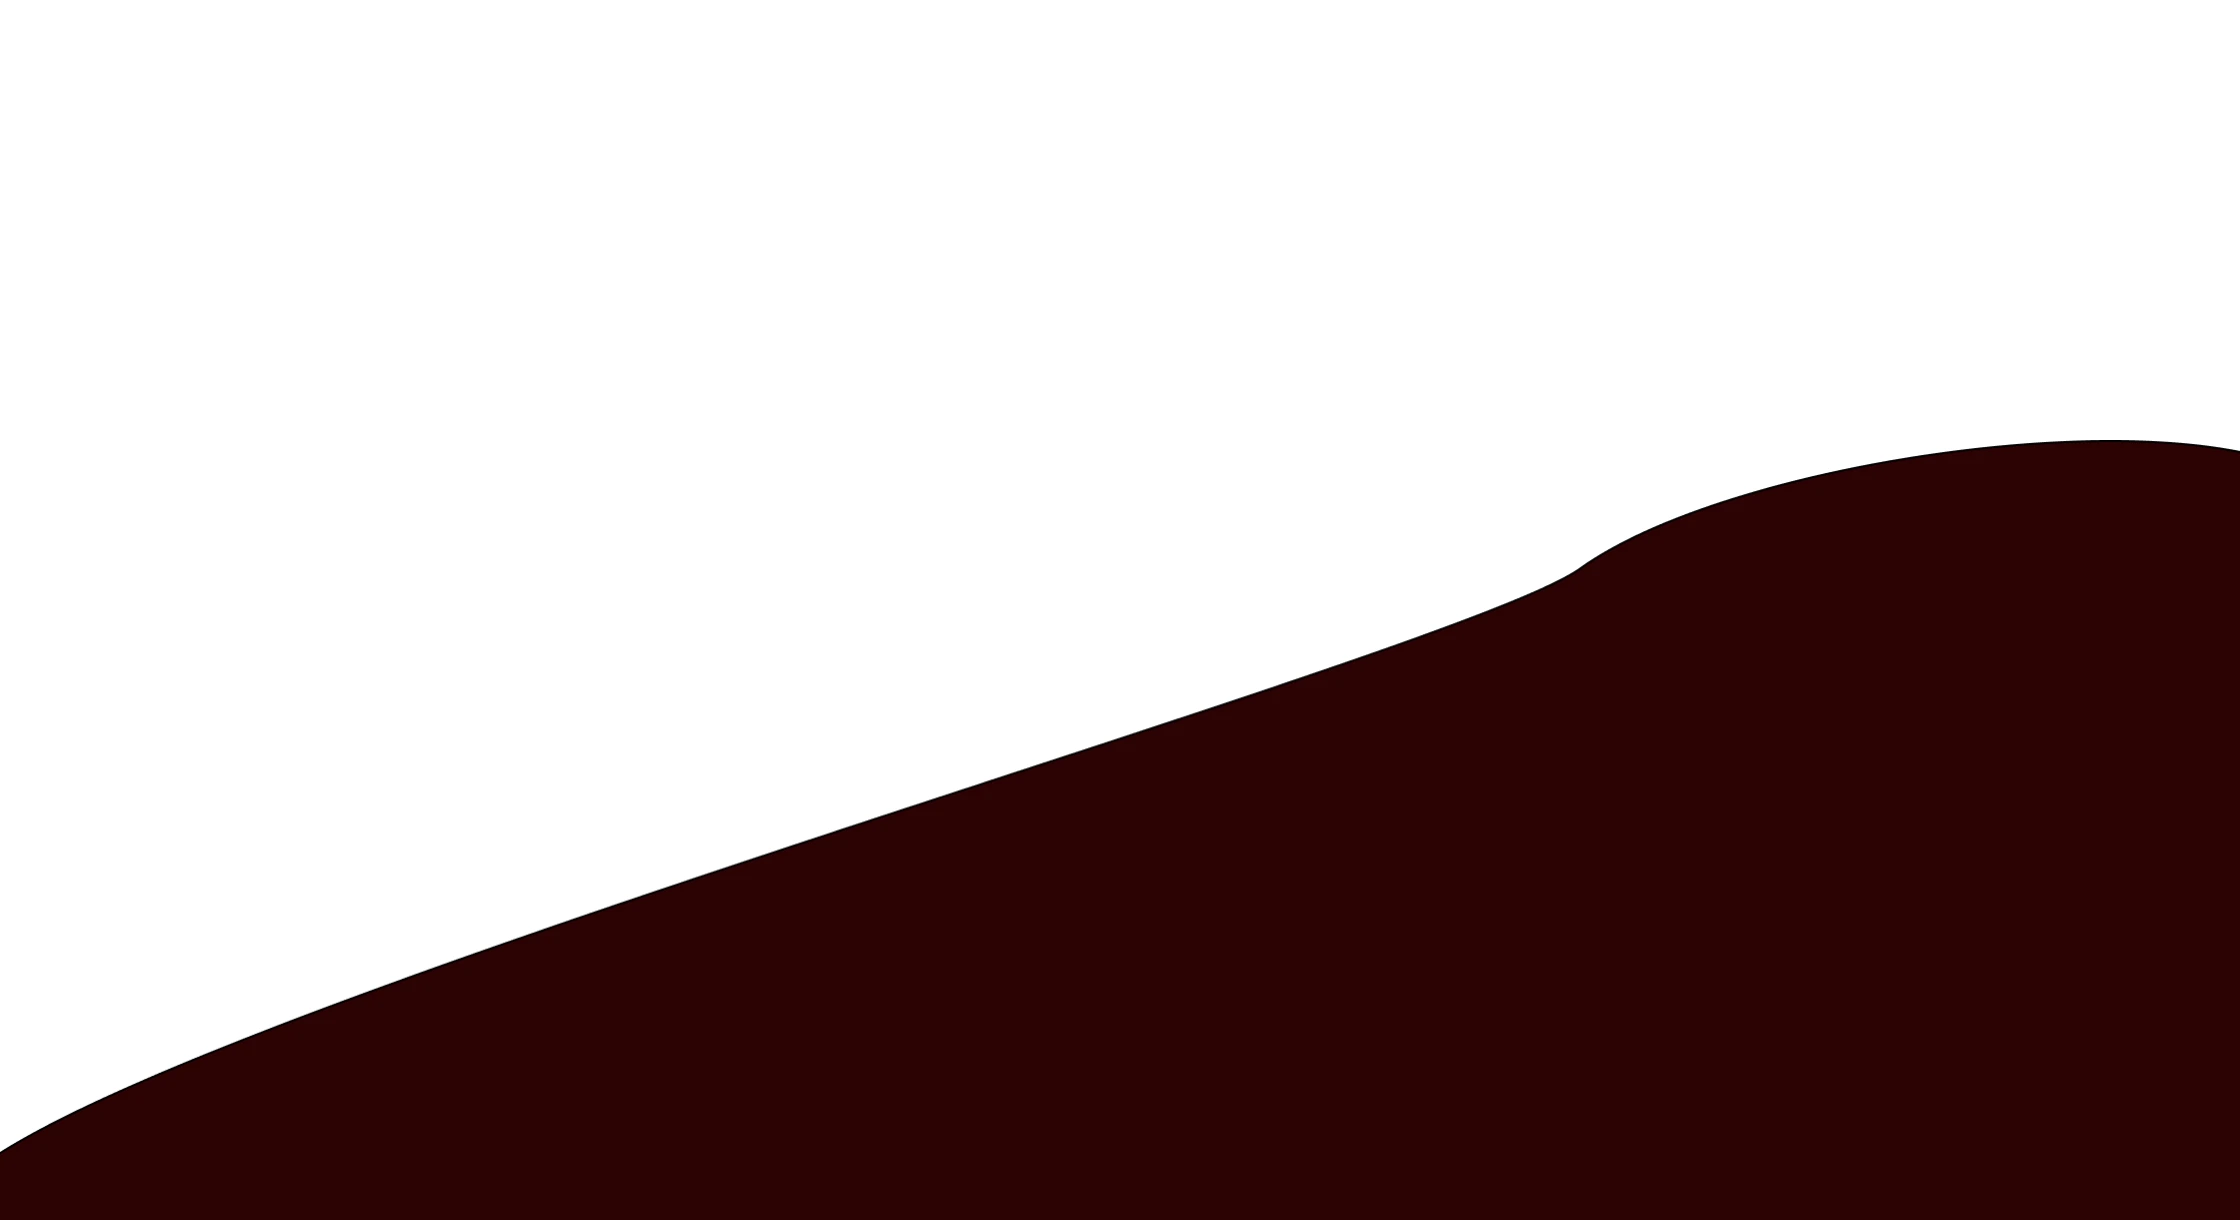
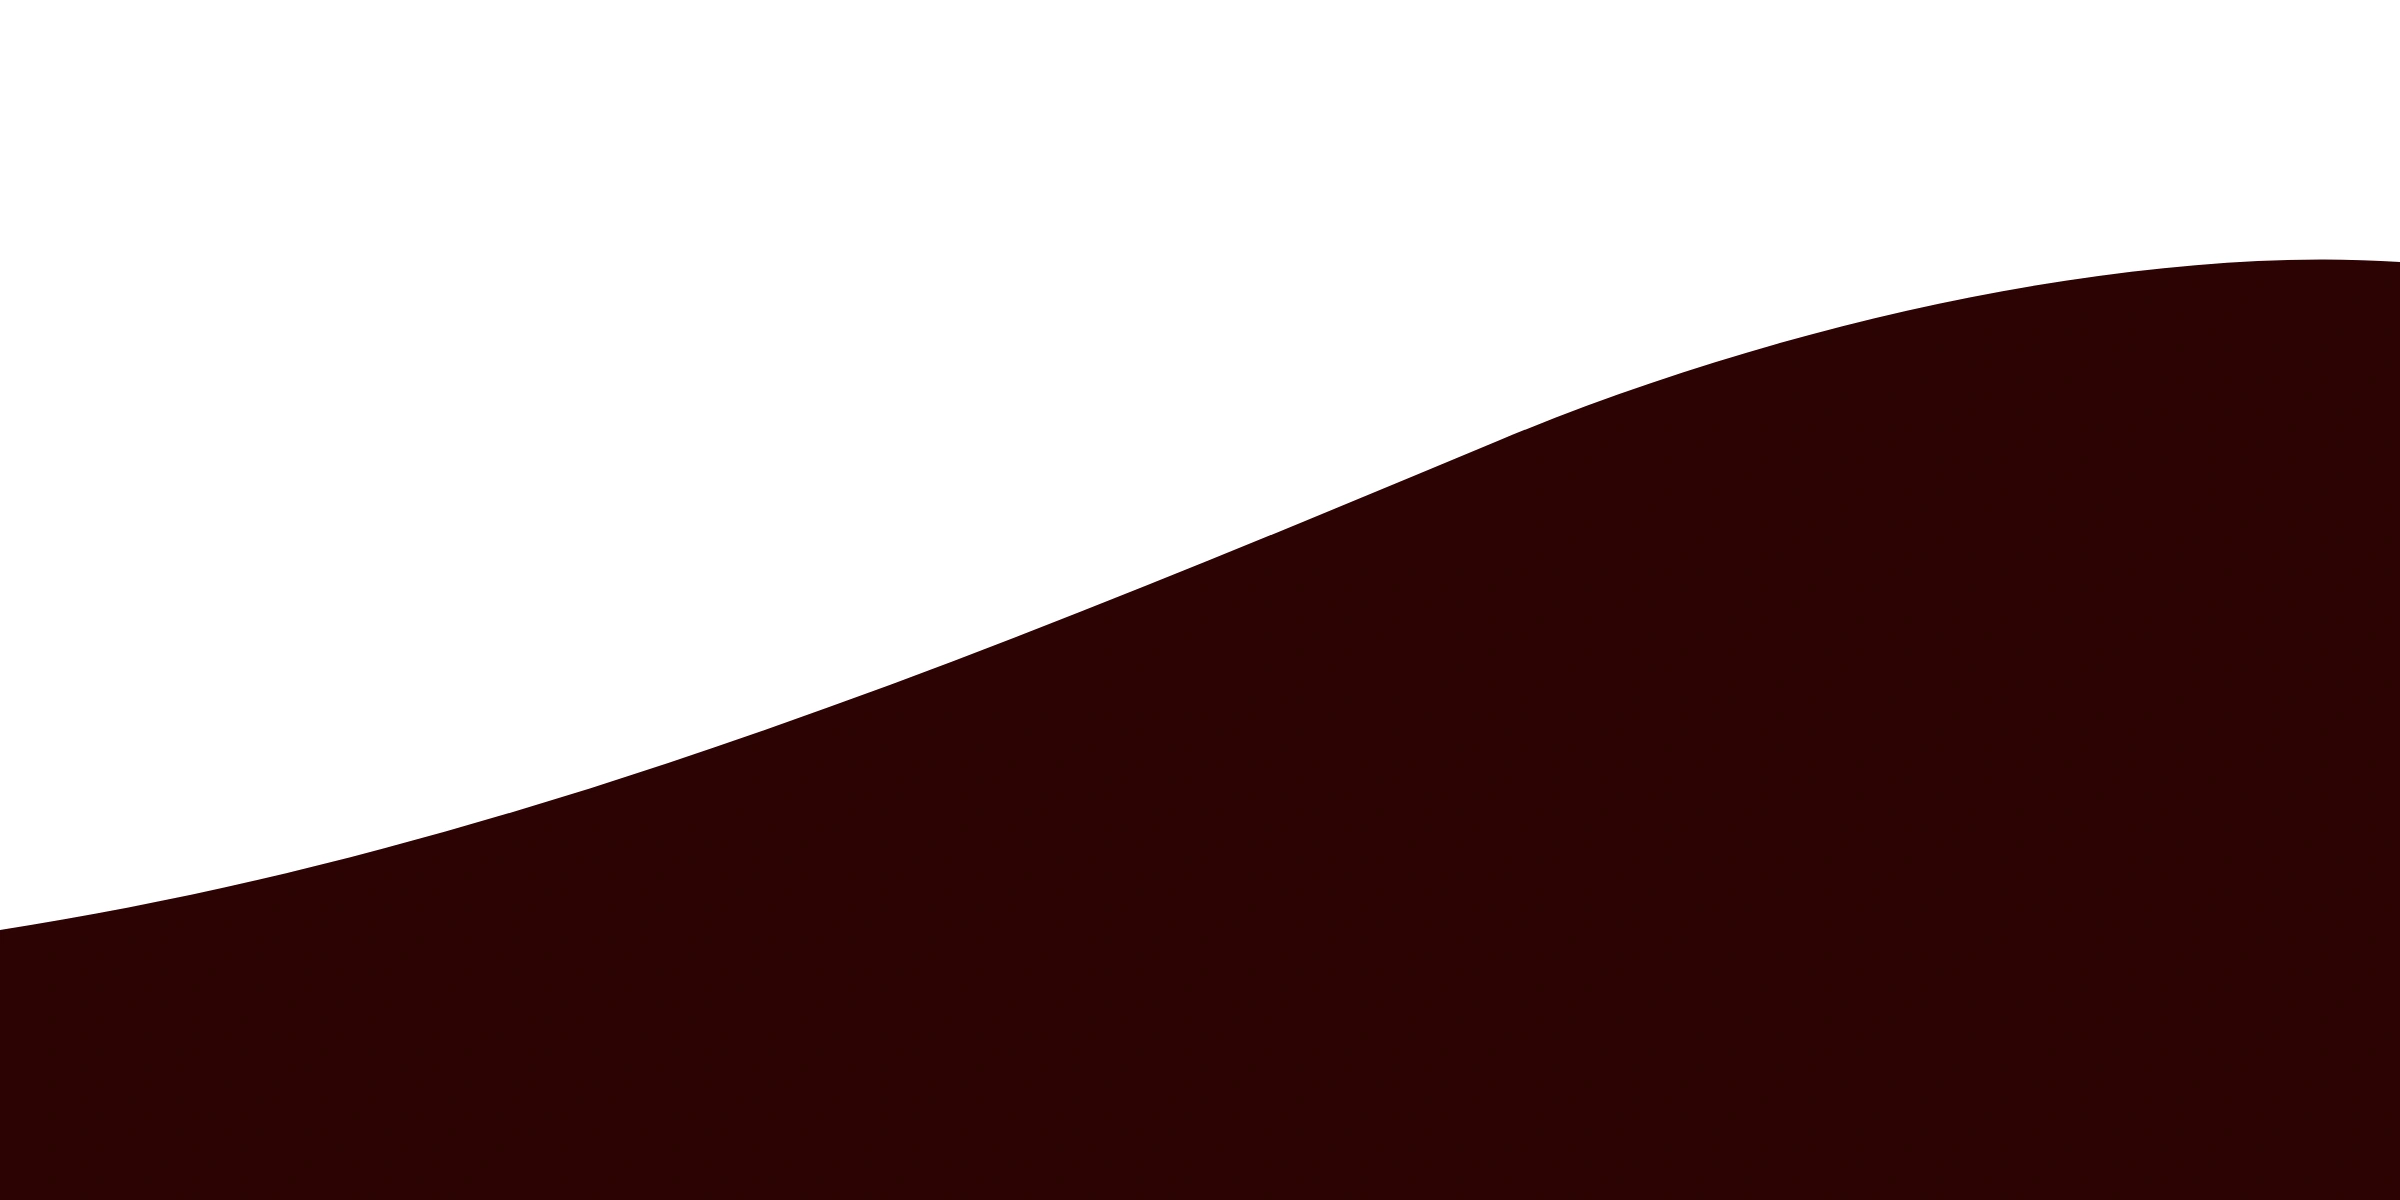
Stines oppskrifter: bigger screens and illustration in the thumbnail, one even dark red sweep

Changed region(s): [[0.0, 0.2158, 1.0, 0.9558]]

diff --git a/app/data/thumbnails.ts b/app/data/thumbnails.ts
@@ -74,8 +74,9 @@ export const thumbnails = {
   },
   oppskrifter: {
     foregroundSrc: "/stines-oppskrifter/thumbnail-fg.webp",
-    foregroundSize: { width: 1120, height: 610 },
+    foregroundSize: { width: 1280, height: 640 },
     backgroundSrc: "/stines-oppskrifter/thumbnail-bg.webp",
+    backgroundPosition: "center bottom",
     backgroundColor: "#ffffff",
   },
 } satisfies Record<string, Thumbnail>;
